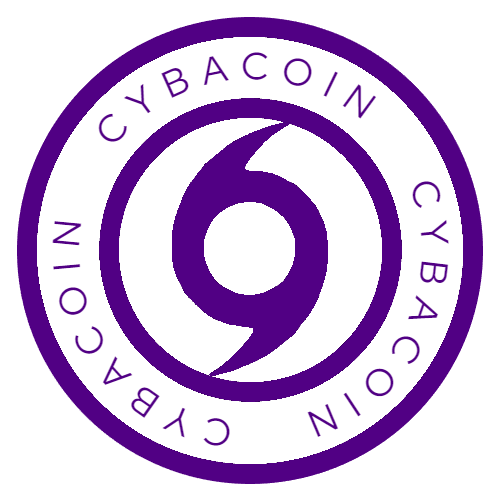
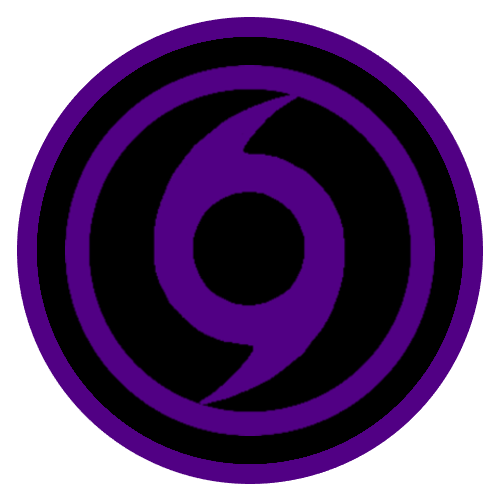
refresh CCoin.png i replaced and reuploaded the file

diff --git a/src/app/leaderboard/page.tsx b/src/app/leaderboard/page.tsx
@@ -214,7 +214,7 @@ export default function LeaderboardPage() {
                     <TableHead className="text-center font-bold">Features</TableHead>
                     <TableHead className="text-right font-bold">
                       <div className="flex justify-end items-center gap-1">
-                        <Image src="/CCoin.png" alt="Cybacoin" width={16} height={16} />
+                        <Image src="/CCoin.png?v=2" alt="Cybacoin" width={16} height={16} />
                         Cybacoin
                       </div>
                     </TableHead>
@@ -337,7 +337,7 @@ export default function LeaderboardPage() {
 
           <Card className="bg-gradient-to-br from-green-500/10 to-transparent border-green-500/20">
             <CardContent className="p-6 text-center">
-               <Image src="/CCoin.png" alt="Cybacoin" width={32} height={32} className="mx-auto mb-2" />
+               <Image src="/CCoin.png?v=2" alt="Cybacoin" width={32} height={32} className="mx-auto mb-2" />
               <p className="text-sm text-muted-foreground mb-1">Total Cybacoin</p>
               <p className="text-lg font-bold">
                 {formatNumber(

diff --git a/src/app/merch/page.tsx b/src/app/merch/page.tsx
@@ -87,7 +87,7 @@ export default function MerchPage() {
                 {item.cybaCoinPrice > 0 && (
                     <div className="flex justify-between items-center border-t border-primary/20 pt-4">
                        <div className="flex items-center gap-2">
-                         <Image src="/CCoin.png" alt="Cybacoin" width={24} height={24} />
+                         <Image src="/CCoin.png?v=2" alt="Cybacoin" width={24} height={24} />
                          <p className="text-2xl font-bold text-primary">
                             {item.cybaCoinPrice}
                         </p>

diff --git a/src/components/layout/header.tsx b/src/components/layout/header.tsx
@@ -83,7 +83,7 @@ function AuthButton() {
   return (
     <div className="flex items-center gap-4">
       <div className="flex items-center gap-2 text-primary">
-        <Image src="/CCoin.png" alt="Cybacoin" width={20} height={20} />
+        <Image src="/CCoin.png?v=2" alt="Cybacoin" width={20} height={20} />
         <span className="font-bold">{userProfile?.cybaCoinBalance || 0}</span>
       </div>
       <DropdownMenu>

diff --git a/src/app/extras/page.tsx b/src/app/extras/page.tsx
@@ -34,7 +34,7 @@ function ItemCard({ item }: { item: any }) {
           {isBoost ? (
             <DollarSign className="h-7 w-7 text-primary" />
           ) : (
-            <Image src="/CCoin.png" alt="Cybacoin" width={28} height={28} />
+            <Image src="/CCoin.png?v=2" alt="Cybacoin" width={28} height={28} />
           )}
         </CardDescription>
       </CardHeader>
